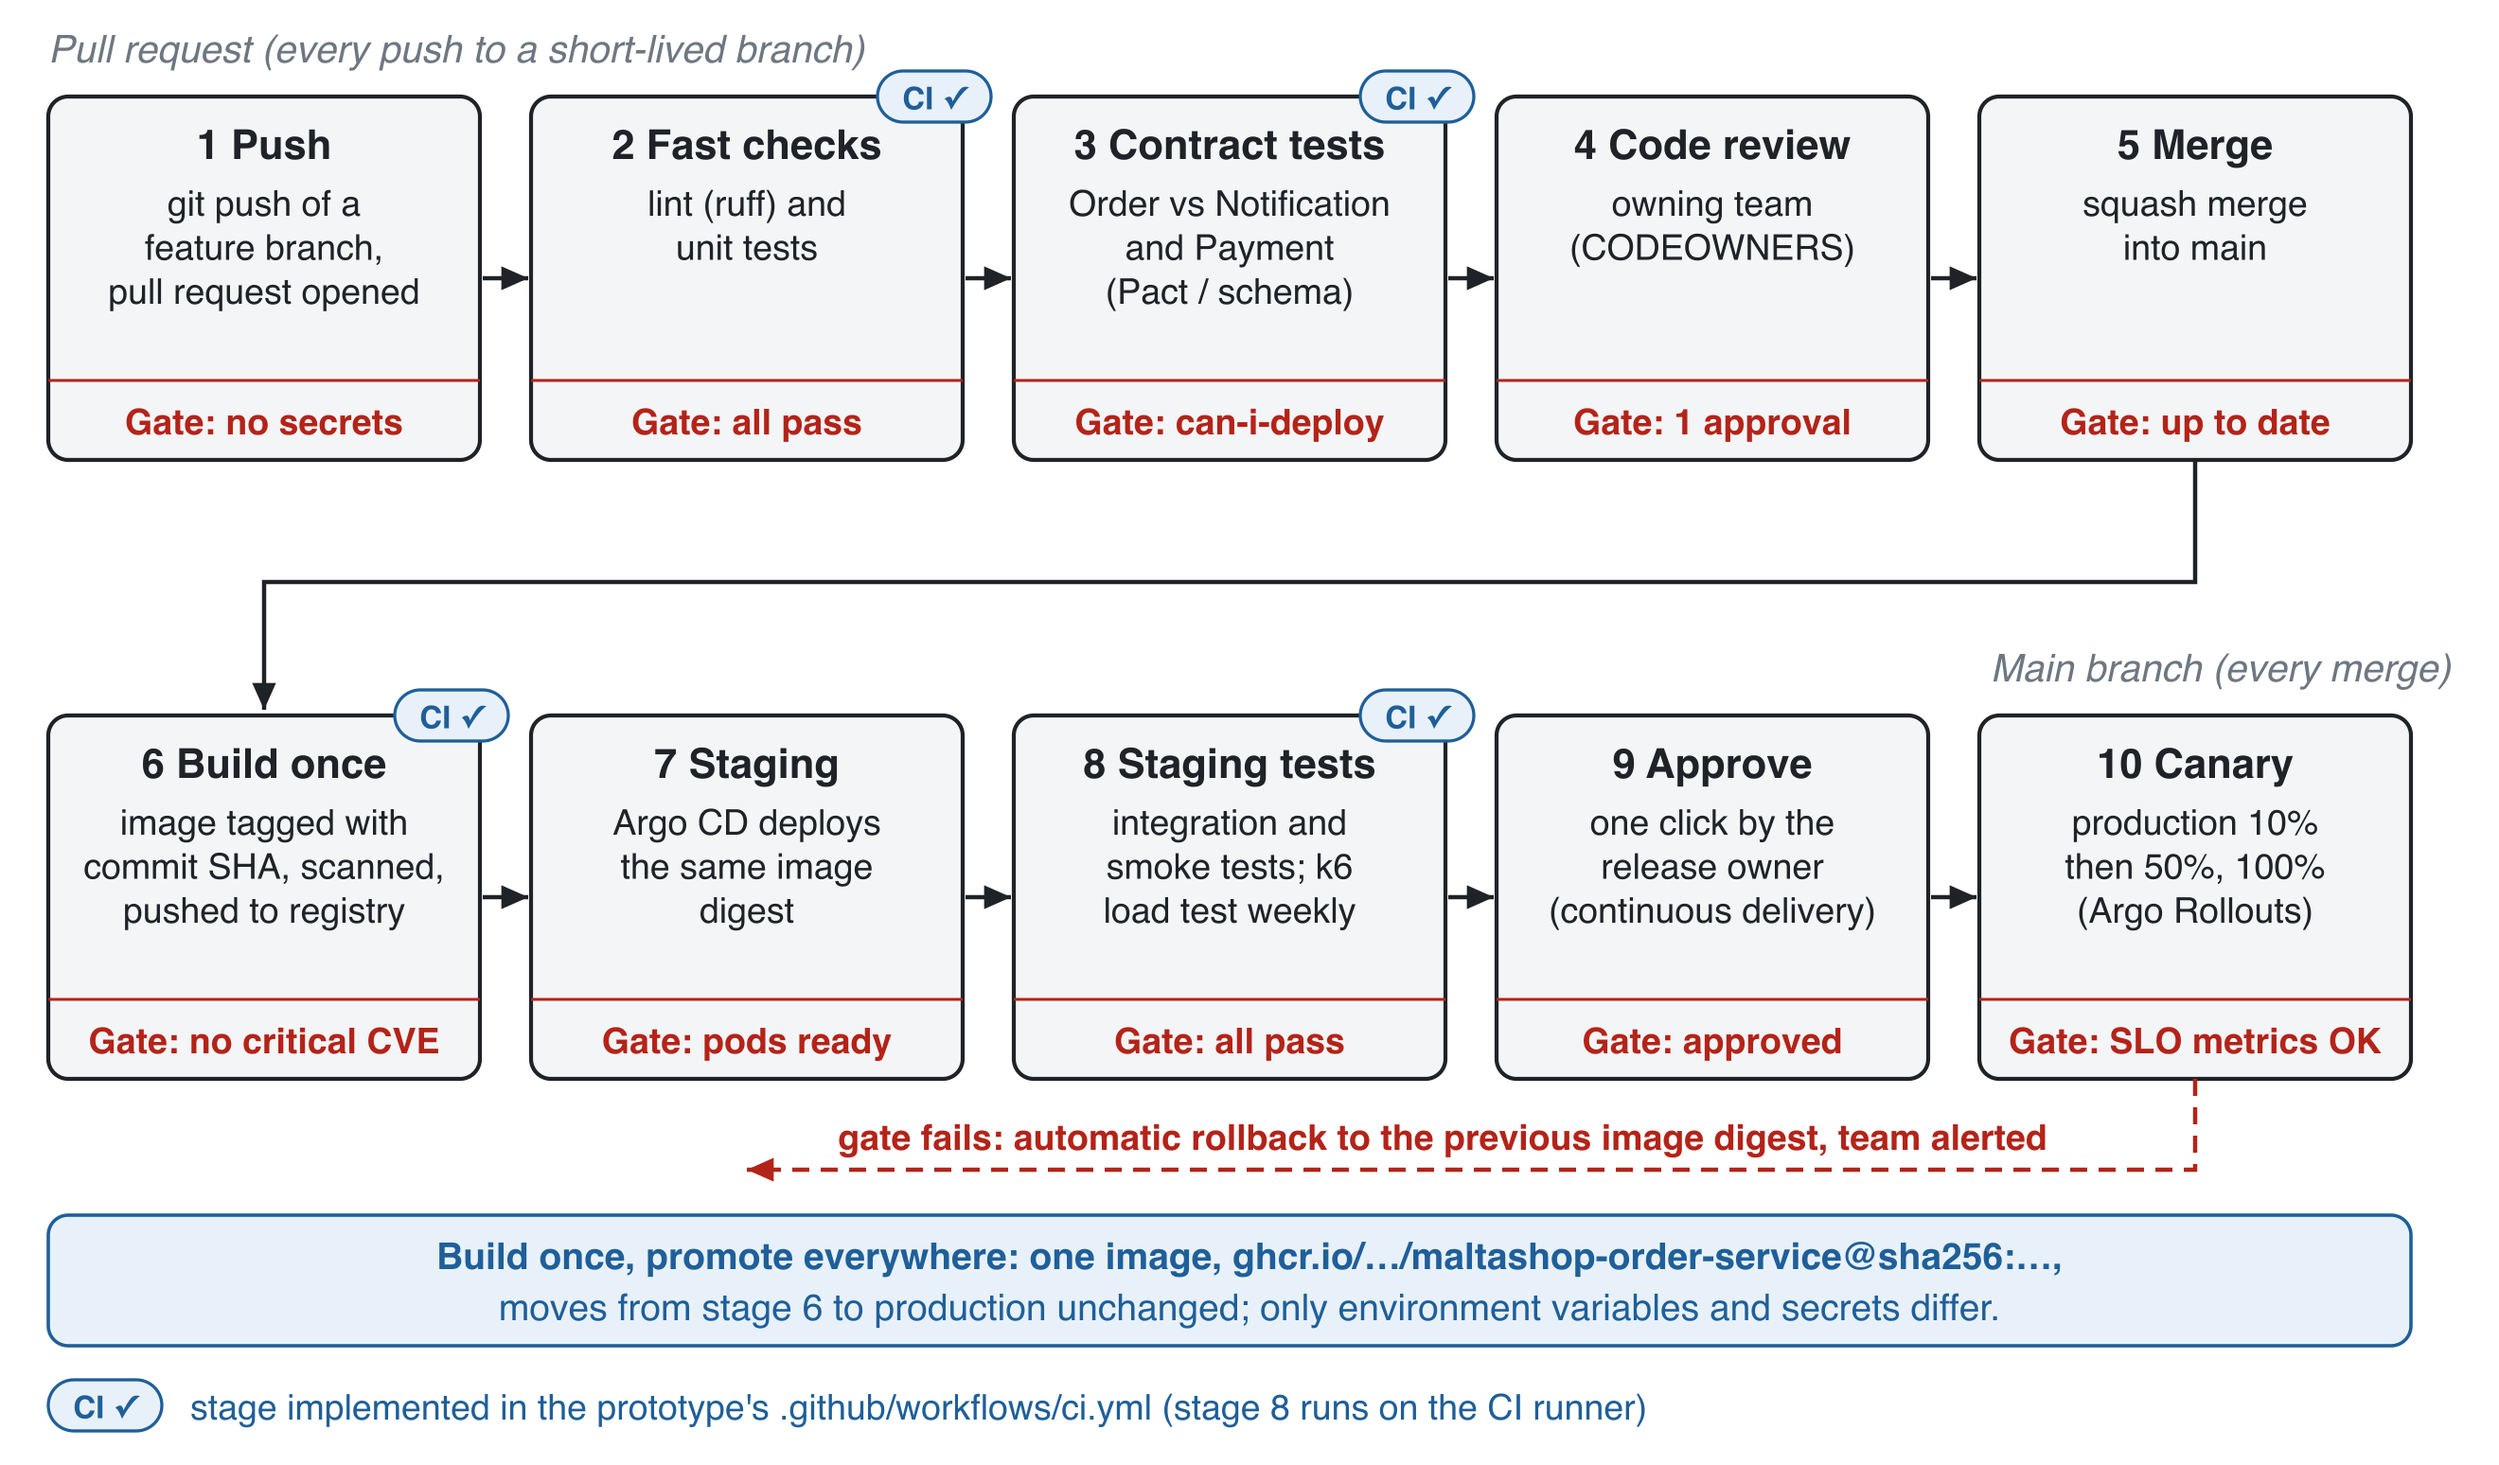
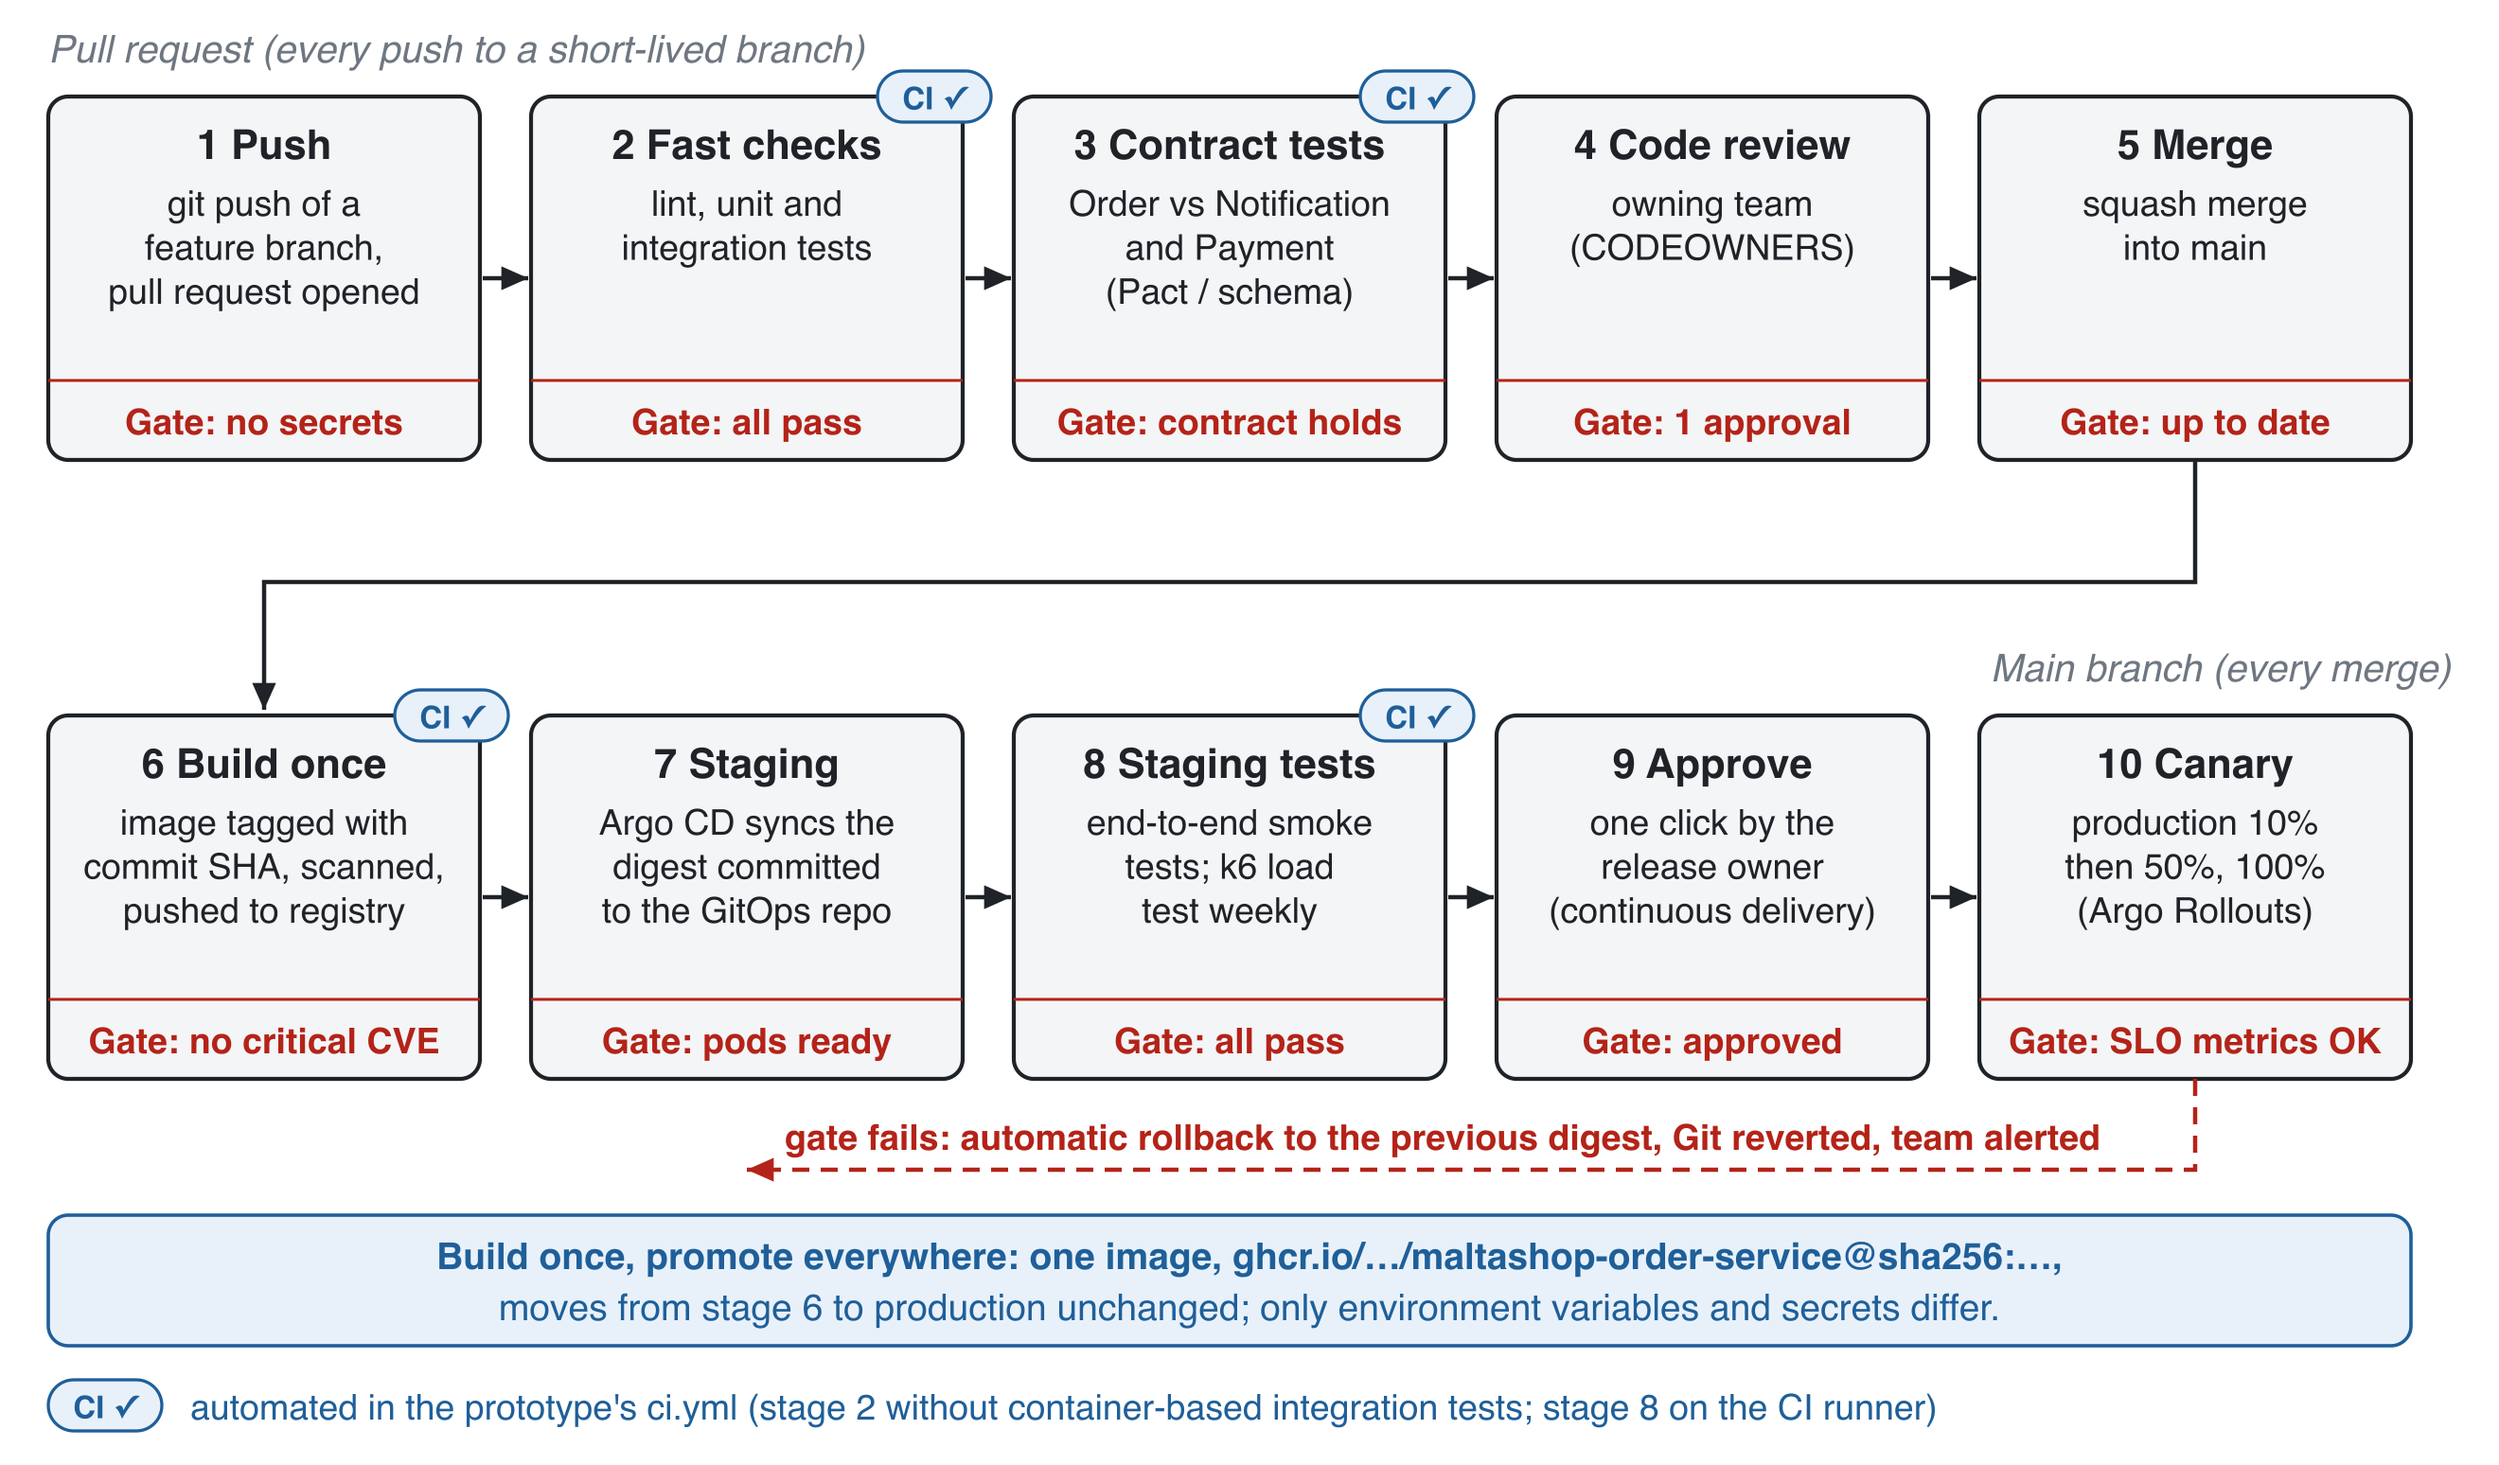
diagrams: pipeline labels use the lecture's test levels and the gitops step

diff --git a/diagrams/make_diagrams.py b/diagrams/make_diagrams.py
@@ -183,14 +183,14 @@ def pipeline():
     rows = [
         ("Pull request (every push to a short-lived branch)", 34, [
             ("1 Push", ["git push of a", "feature branch,", "pull request opened"], "no secrets", False),
-            ("2 Fast checks", ["lint (ruff) and", "unit tests"], "all pass", True),
-            ("3 Contract tests", ["Order vs Notification", "and Payment", "(Pact / schema)"], "can-i-deploy", True),
+            ("2 Fast checks", ["lint, unit and", "integration tests"], "all pass", True),
+            ("3 Contract tests", ["Order vs Notification", "and Payment", "(Pact / schema)"], "contract holds", True),
             ("4 Code review", ["owning team", "(CODEOWNERS)"], "1 approval", False),
             ("5 Merge", ["squash merge", "into main"], "up to date", False)]),
         ("Main branch (every merge)", 252, [
             ("6 Build once", ["image tagged with", "commit SHA, scanned,", "pushed to registry"], "no critical CVE", True),
-            ("7 Staging", ["Argo CD deploys", "the same image", "digest"], "pods ready", False),
-            ("8 Staging tests", ["integration and", "smoke tests; k6", "load test weekly"], "all pass", True),
+            ("7 Staging", ["Argo CD syncs the", "digest committed", "to the GitOps repo"], "pods ready", False),
+            ("8 Staging tests", ["end-to-end smoke", "tests; k6 load", "test weekly"], "all pass", True),
             ("9 Approve", ["one click by the", "release owner", "(continuous delivery)"], "approved", False),
             ("10 Canary", ["production 10%", "then 50%, 100%", "(Argo Rollouts)"], "SLO metrics OK", False)]),
     ]
@@ -216,7 +216,7 @@ def pipeline():
     b.append(polyline([(x0 + 4 * (w + gap) + w / 2, 252 + h), (x0 + 4 * (w + gap) + w / 2, 412),
                        (x0 + 1 * (w + gap) + w / 2, 412)], colour="accent", dashed=True))
     b.append(text(x0 + 2.5 * (w + gap) + w / 2 - 10, 405, "gate fails: automatic rollback to the previous "
-                  "image digest, team alerted", size=12.5, colour=ACCENT, bold=True))
+                  "digest, Git reverted, team alerted", size=12.5, colour=ACCENT, bold=True))
     # build once, promote everywhere band
     b.append(rect(x0, 428, 4 * (w + gap) + w, 46, BLUE_FILL, BLUE, 1.2))
     b.append(text(440, 447, "Build once, promote everywhere: one image, ghcr.io/…/maltashop-order-service@sha256:…,",
@@ -225,8 +225,8 @@ def pipeline():
                             "differ.", size=13, colour=BLUE))
     b.append(rect(x0, 486, 40, 18, BLUE_FILL, BLUE, 1.1, rx=9))
     b.append(text(x0 + 20, 499.5, "CI ✓", size=11, bold=True, colour=BLUE))
-    b.append(text(x0 + 50, 500, "stage implemented in the prototype's .github/workflows/ci.yml (stage 8 runs "
-                                "on the CI runner)", size=12.5, anchor="start", colour=BLUE))
+    b.append(text(x0 + 50, 500, "automated in the prototype's ci.yml (stage 2 without container-based "
+                                "integration tests; stage 8 on the CI runner)", size=12.5, anchor="start", colour=BLUE))
     return svg(880, 516, "\n".join(b))
 
 
